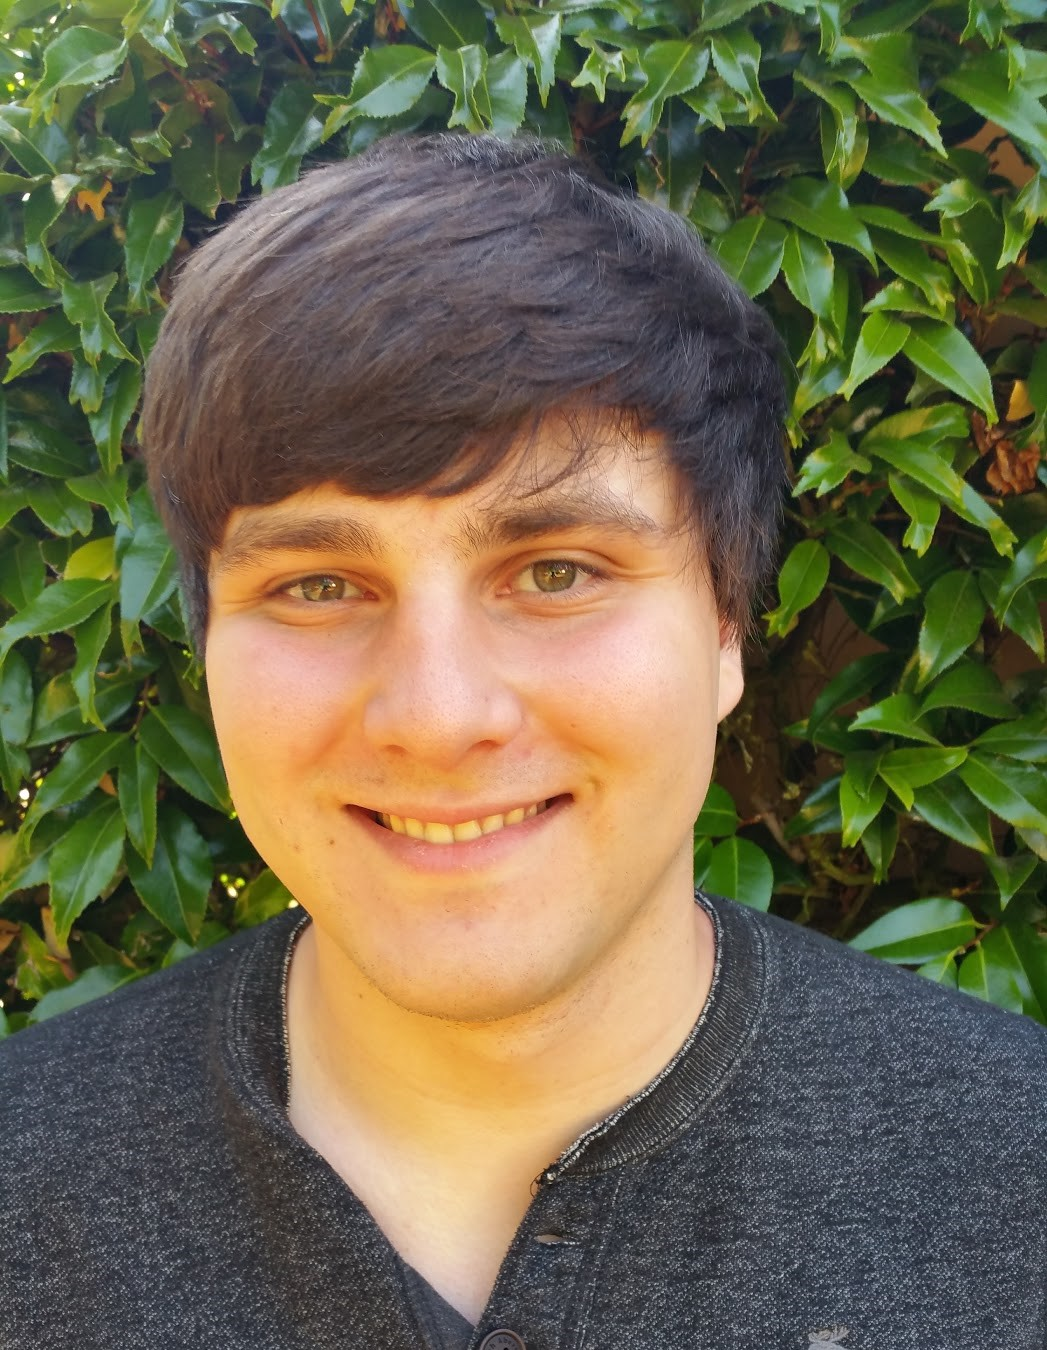
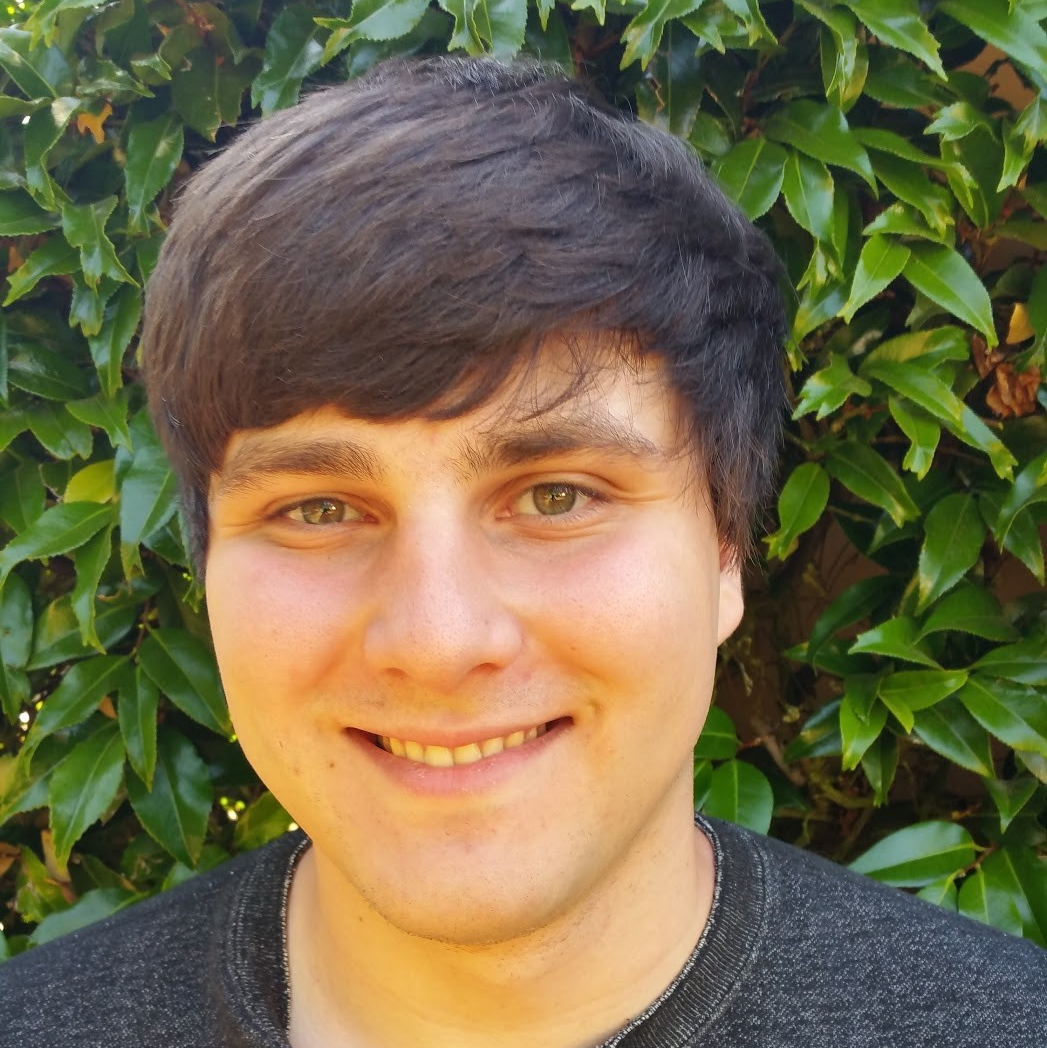
Added picture.

diff --git a/_includes/portfolio_grid.html b/_includes/portfolio_grid.html
@@ -10,7 +10,7 @@
             </div>
             <div class="row">
                 {% for post in site.posts %}
-                    <div class="col-sm-4 portfolio-item">
+                    <div class="col-sm-12 portfolio-item">
                         <a href="#portfolioModal-{{ post.modal-id }}" class="portfolio-link" data-toggle="modal">
                             <div class="caption">
                                 <div class="caption-content">

diff --git a/_includes/header.html b/_includes/header.html
@@ -3,7 +3,7 @@
         <div class="container">
             <div class="row">
                 <div class="col-lg-12">
-                    <img class="img-responsive" src="img/profile.png" alt="">
+                    <img class="img-responsive img-profile" src="img/profile.png" alt="">
                     <div class="intro-text">
                         <span class="name">{{ site.title }}</span>
                         <hr class="star-light">

diff --git a/_includes/css/main.css b/_includes/css/main.css
@@ -95,6 +95,11 @@ header img {
     margin: 0 auto 20px;
 }
 
+.img-profile {
+    border-radius: 50%;
+    height: 300px;
+}
+
 header .intro-text .name {
     display: block;
     text-transform: uppercase;
